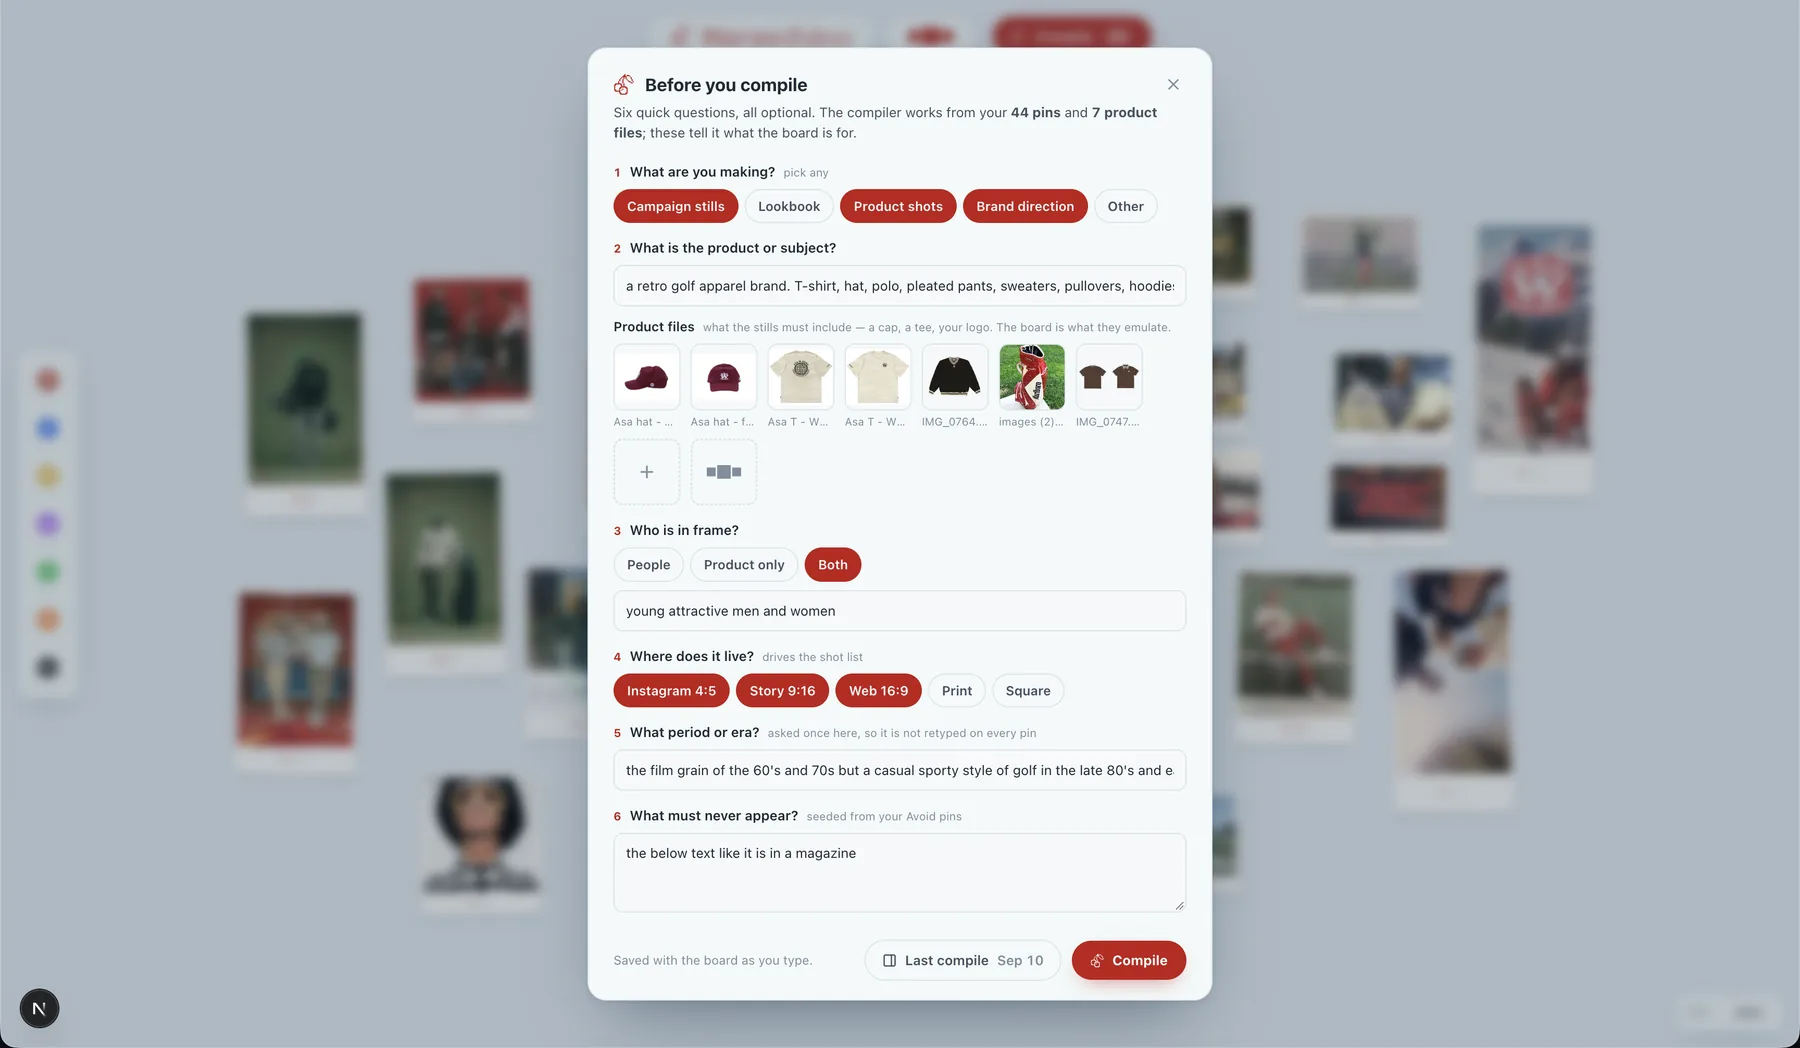
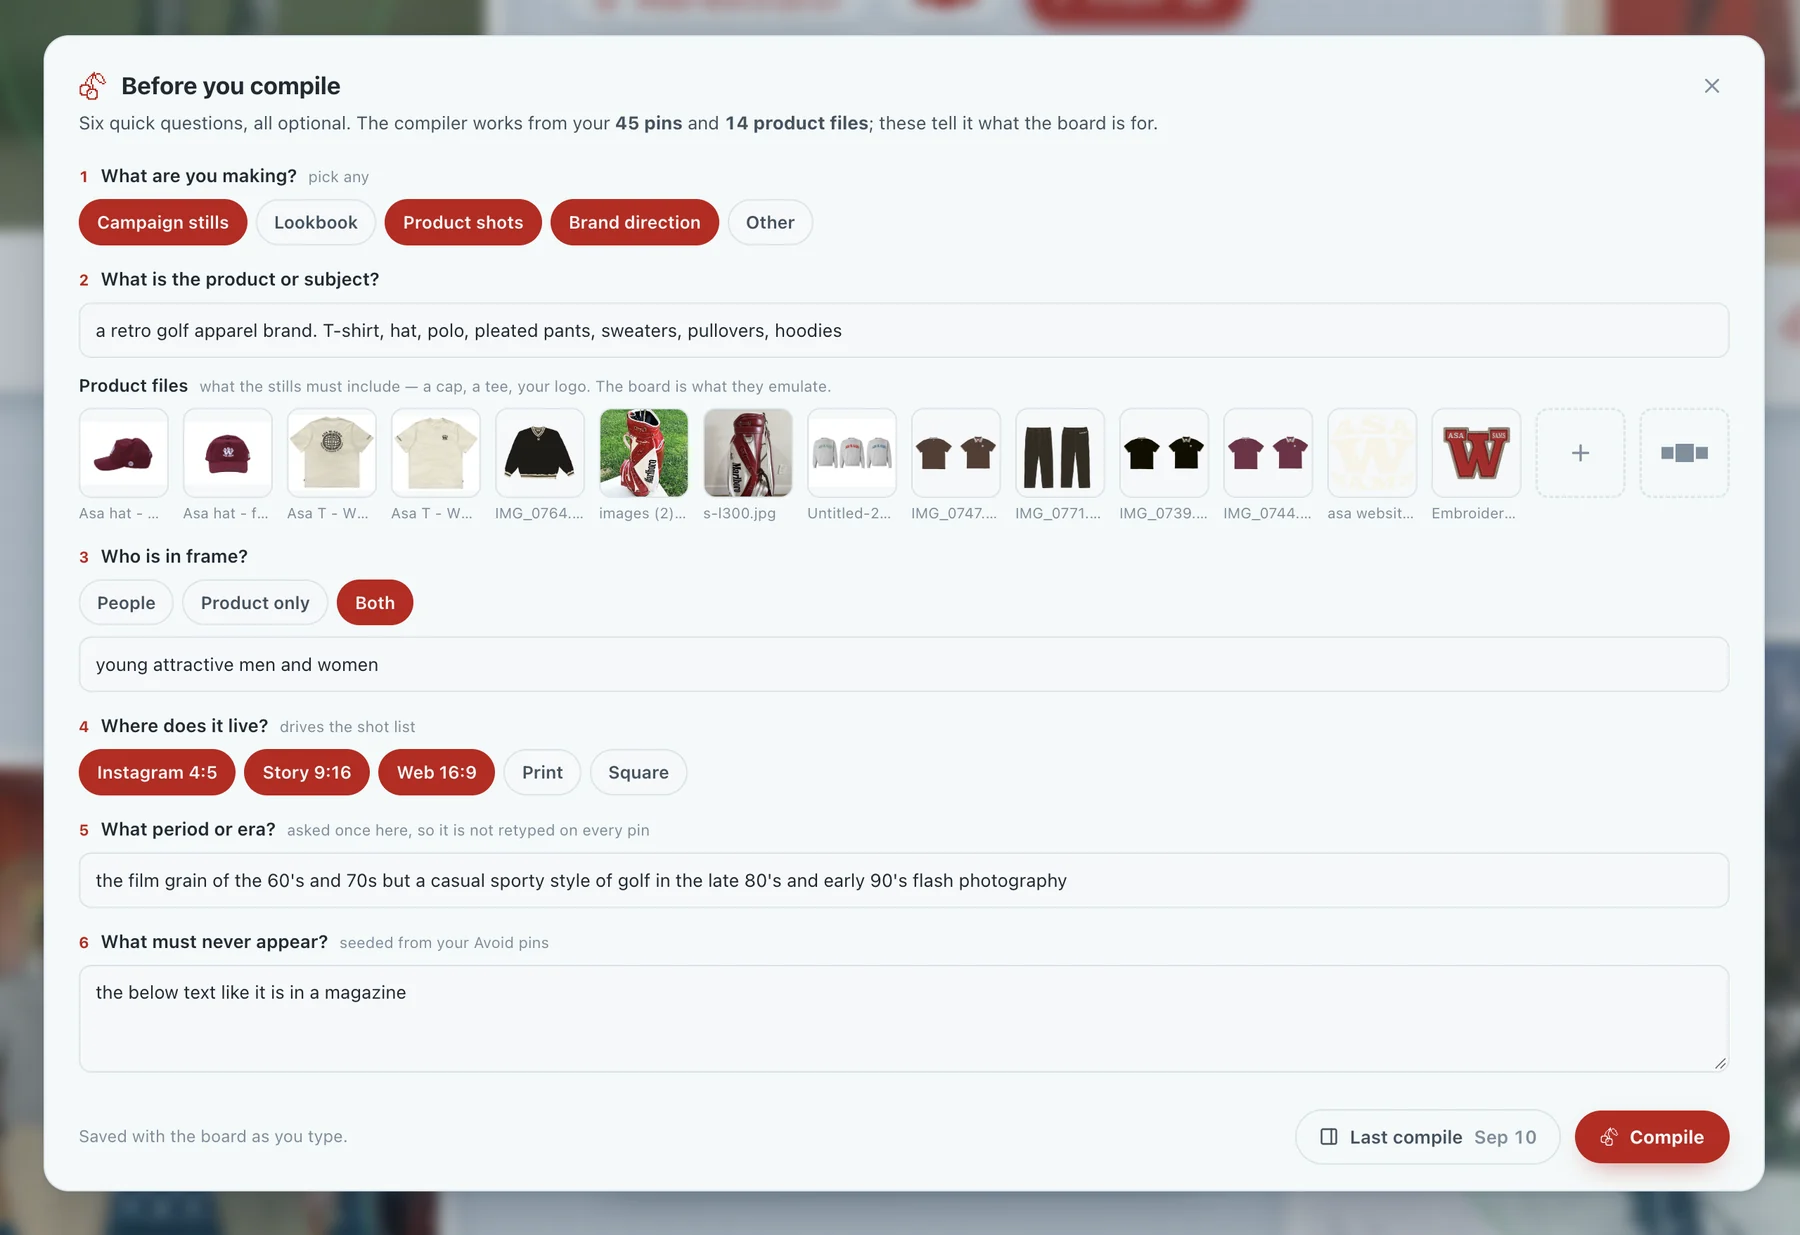
Maraschino: new compile card screenshot

diff --git a/case-studies/maraschino/index.html b/case-studies/maraschino/index.html
@@ -387,7 +387,7 @@
       <div class="step"><div class="n">04</div><h3>Proof</h3><p>The Stills tab makes the shot list on an image model with your product files as references. Wrong still? Fix the pins and recompile.</p><div class="out">Out: photographs</div></div>
     </div>
 
-    <figure class="pol" style="margin-top:34px;"><img src="assets/ui-compile-card.webp" alt="The 'Before you compile' card: chips for what you are making, a product description with a row of product file thumbnails (cap, tee, polos, sweater), who is in frame, aspect ratio options, the period, and what must never appear, with a red Compile button." width="1800" height="1048" loading="lazy"><figcaption class="chin"><span>Before you compile · 44 pins, 7 product files</span><span>Whole-board facts, asked once</span></figcaption></figure>
+    <figure class="pol" style="margin-top:34px;"><img src="assets/ui-compile-card.webp" alt="The 'Before you compile' card, filled in: Campaign stills, Product shots and Brand direction chosen; a retro golf apparel brand as the subject; a single row of 14 product files (caps, tees, a sweater, golf bags, pants, polos, the wordmark and the W patch); Both in frame; Instagram, Story and Web formats; a period note; and what must never appear, with a red Compile button." width="1800" height="1235" loading="lazy"><figcaption class="chin"><span>Before you compile · 45 pins, 14 product files</span><span>Whole-board facts, asked once</span></figcaption></figure>
     <div class="grid3 rail-tabs">
       <figure class="pol"><img src="assets/rail-brief.webp" alt="The compile rail's Brief tab: 2,389 words on claude-sonnet-5, opening with the Concept section for a retro golf apparel line." width="750" height="1150" loading="lazy"><figcaption class="chin"><span>Brief · 2,389 words</span></figcaption></figure>
       <figure class="pol"><img src="assets/rail-extraction.webp" alt="The Extraction tab: per-pin findings with the crop thumbnail, the note, and structured fields such as genre, setting and palette hexes." width="750" height="1150" loading="lazy"><figcaption class="chin"><span>Extraction · 41 pins read in 9 calls</span></figcaption></figure>
